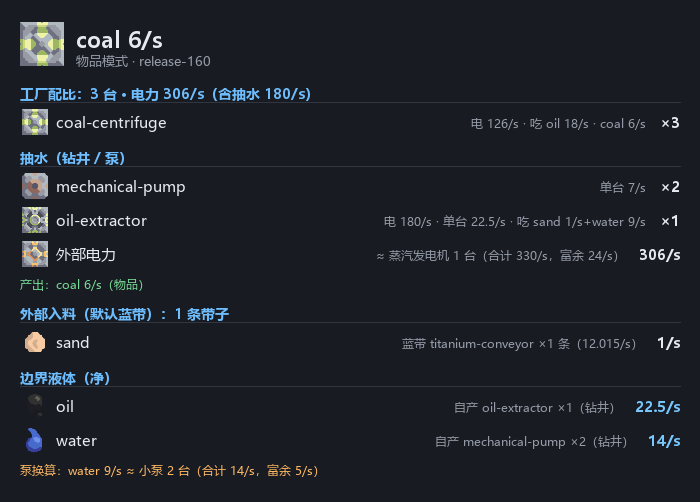
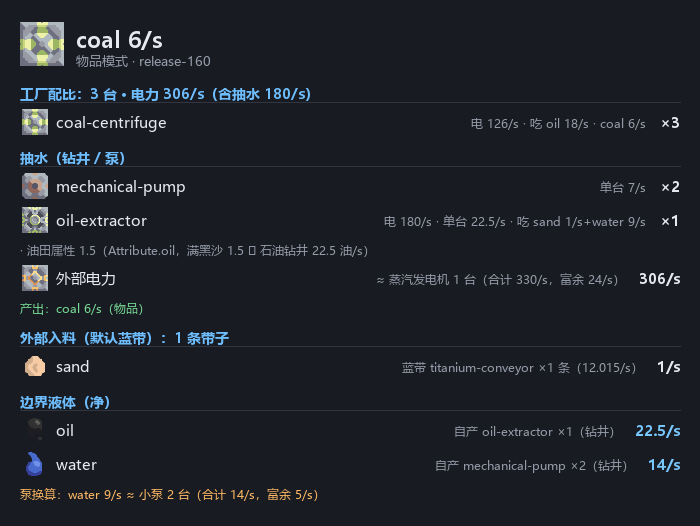
fix(ratio-calc): 油田属性可调（--oilfloor 默认 1.5 ⇒ 22.5 油/s）、修混合厂液体重复计、物品工厂写出产出
- 石油钻井地板属性做成参数：core.applyFloor + idx.oilFloor，expand/expandBuilding/expandMixed/
  pumpPlan/pumpEquivalents/pumpMix 全部透传 opts.floor；CLI --oilfloor、页面「油田属性」数字框、
  URL ?oilfloor=0.7；machineRows 按 result.oilFloor 重算泵产量（0.7 ⇒ 10.5 油/s、2 台钻井）。
- 修 expandMixed 液体重复计：目标方块的输入液体只走 machines（liquidDemand 读），不再同时塞
  liquidExtra，3 台 coal-centrifuge 的油从 36/s 回到 18/s，liquidNet 不再报外部运入。
- 修物品工厂产出行被 kind !== "item" 挡掉的问题：pulverizer 现在写「吃 scrap 1.5/s → sand 1.5/s」。
- 测试：core 176 行 ok、cli 67 项、page 101 项、card 12 项；gate.py 12/12。
- 重出 docs/card-coal.png（700×526）、docs/page-coal.png（含油田属性输入框）。

diff --git a/ratio-calc/core.js b/ratio-calc/core.js
@@ -231,6 +231,12 @@
       liquidPumps: liquidPumps,
       liquidMakers: liquidMakers,
       liquidColors: data.liquid_colors || {},
+      /* 油田属性默认值（数据里 Fracker 的 perSecond 就是按这个属性算的） */
+      oilFloor: (function () {
+        var f = 0;
+        pumps.forEach(function (p) { if (p.kind === "Fracker" && p.floorAttr > 0) f = p.floorAttr; });
+        return f || 1.5;
+      })(),
       liquidIcons: data.liquid_icons || {},
       channels: channels,
       channelsByKey: channelsByKey,
@@ -318,6 +324,47 @@
   /* 液体来源方案：要 amount 个/s 的某种液体，用钻井还是转化方块、要几台、吃什么。
    * how  = "auto"（钻井优先）| "pump"（钻井）| "make"（转化方块）| "import"（不自产）
    * name 可选：指定泵 / 转化方块的方块名（如 oil 用 spore-press 而不是 oil-extractor）。 */
+  /* 油田属性（Attribute.oil）覆盖：Fracker 每秒 = pumpAmount×60×属性，
+   * 数据里存的是「满黑沙 1.5」的值，属性不同就按比例缩放。
+   * 返回一份浅拷贝的 index（pumps 与 liquidPumps 都换成缩放后的对象），不污染缓存。
+   * floor 不传或与默认相同时直接返回原 index。 */
+  function applyFloor(idx, floor) {
+    var base = idx.oilFloor || 1.5;
+    if (!(floor > 0) || Math.abs(floor - base) < 1e-9) return idx;
+    var pumps = new Map();
+    idx.pumps.forEach(function (p, k) {
+      if (p.kind === "Fracker" && p.floorAttr > 0) {
+        var q = {};
+        Object.keys(p).forEach(function (key) { q[key] = p[key]; });
+        q.perSecond = round(p.perSecond * floor / p.floorAttr);
+        q.floorAttr = floor;
+        pumps.set(k, q);
+      } else {
+        pumps.set(k, p);
+      }
+    });
+    var liquidPumps = new Map();
+    pumps.forEach(function (p) {
+      if (!(p.perSecond > 0)) return;
+      if (!liquidPumps.has(p.liquid)) liquidPumps.set(p.liquid, []);
+      liquidPumps.get(p.liquid).push(p);
+    });
+    liquidPumps.forEach(function (arr) {
+      arr.sort(function (a, b) {
+        var al = a.inputLiquids.length ? 1 : 0, bl = b.inputLiquids.length ? 1 : 0;
+        if (al !== bl) return al - bl;
+        return (b.perSecond - a.perSecond) || (a.power - b.power)
+            || (a.name < b.name ? -1 : a.name > b.name ? 1 : 0);
+      });
+    });
+    var out = {};
+    Object.keys(idx).forEach(function (key) { out[key] = idx[key]; });
+    out.pumps = pumps;
+    out.liquidPumps = liquidPumps;
+    out.oilFloor = floor;
+    return out;
+  }
+
   function liquidSourcePlan(idx, liquid, amount, how, name) {
     var pumps = idx.liquidPumps.get(liquid) || [];
     var makers = idx.liquidMakers.get(liquid) || [];
@@ -533,12 +580,13 @@
    * opts.liquids = "auto" 时，机器吃但没人供的液体（如 coal-centrifuge 的 oil）自动接钻井/转化方块，
    * 这就是"不允许外部输入"时把煤炭处理线（coal-centrifuge → oil-extractor）带出来的开关。 */
   function expand(data, target, rate, boundary, force, opts) {
-    var idx = indexOf(data);
+    var idx = applyFloor(indexOf(data), opts && opts.floor);
     if (!idx.itemSet.has(target)) throw new Error("未知物品：" + target);
     var ex = makeExpander(idx, boundary, force, (opts && opts.maxDepth) || MAX_DEPTH, !!(opts && opts.multi));
     var root = ex.need(target, rate, 0, null);
     var liquidFrom = (opts && opts.liquids) ? ex.resolveLiquids(opts) : {};
     var res = ex.result({ target: target, requested: rate, tree: root, liquidFrom: liquidFrom });
+    res.oilFloor = idx.oilFloor;
     res.achieved = root && root.actual ? root.actual : 0;
     recalcPower(idx, res);          // 液体自产会把钻井/抽水泵塞进 machines，电力和液体都要重算一次
     if (opts && opts.sources) applySources(data, res, opts.sources);
@@ -552,7 +600,7 @@
   /* 发电设备当"目标建筑"：算总发电、燃料、液体、自耗电。
    * 不递归电力：发电厂的自耗只显示，不再换算成更多发电厂。 */
   function expandGenerator(data, genName, count, opts) {
-    var idx = indexOf(data);
+    var idx = applyFloor(indexOf(data), opts && opts.floor);
     opts = opts || {};
     var g = idx.generators.get(genName);
     if (!g) throw new Error("未知发电厂：" + genName);
@@ -569,7 +617,7 @@
       mode: "building", block: genName, count: count, plan: 0, planTotal: 0,
       products: [{ name: "电力", type: "power", rate: round(netEach * count) }],
       inputs: [], tree: null, warnings: [], order: [], liquidExtra: {},
-      machines: {}, demand: {}, power: 0, extraPower: 0
+      machines: {}, demand: {}, power: 0, extraPower: 0, oilFloor: idx.oilFloor
     };
     if (fuel) {
       res.inputs.push({ name: fuel[0], amount: round(fuel[1] * count) });
@@ -599,7 +647,7 @@
   }
 
   function expandBuilding(data, blockName, count, opts) {
-    var idx = indexOf(data);
+    var idx = applyFloor(indexOf(data), opts && opts.floor);
     opts = opts || {};
     if (idx.generators && idx.generators.get(blockName)) return expandGenerator(data, blockName, count, opts);
     var b = idx.blocks.get(blockName);
@@ -651,6 +699,7 @@
         ? Math.min(Math.max(0, opts.plan || 0), Math.max(0, (b.plans || []).length - 1)) : 0,
       planTotal: b.kind === "unit" && b.factoryKind !== "reconstructor" ? (b.plans || []).length : 0
     });
+    res.oilFloor = idx.oilFloor;
     // 目标建筑自身也进建造清单（电力/液体要一起算进去：ex.result 里还没有它）
     res.machines[blockName] = (res.machines[blockName] || 0) + count;
     res.machines = sortMachines(res.machines);
@@ -717,7 +766,7 @@
 
   /* targets = [{block:"silicon-smelter", count:2}, {block:"graphite-press", count:3}] */
   function expandMixed(data, targets, opts) {
-    var idx = indexOf(data);
+    var idx = applyFloor(indexOf(data), opts && opts.floor);
     opts = opts || {};
     var list = (targets || []).map(function (t) {
       if (!t || !t.block) throw new Error("混合厂的每个目标都要写方块名");
@@ -862,9 +911,8 @@
       s.inputs.forEach(function (i) {
         inputs.push({ name: i.name, amount: i.amount, block: s.block });
       });
-      (s.inputLiquids || []).forEach(function (l) {
-        liquidExtra[l.name] = (liquidExtra[l.name] || 0) + l.perSecond;
-      });
+      /* 注意：目标方块的输入液体已经通过上面那行 machines[s.block] 进 liquidDemand，
+       * 再塞 liquidExtra 就会重复计一遍（mixed 模式 coal-centrifuge 3 台的油曾算成 36/s）。 */
       powerOut += s.powerOut || 0;
       targetRows.push({ block: s.block, count: s.count, kind: s.kind, products: s.products,
                         inputs: s.inputs, inputLiquids: s.inputLiquids || [],
@@ -916,6 +964,7 @@
       internals: internals,
       warnings: warnings,
       tree: null,
+      oilFloor: idx.oilFloor,
       snapshot: idx.snapshot || ""
     };
     Object.keys(boundaryRate).sort().forEach(function (k) {
@@ -1172,8 +1221,8 @@
   }
 
   /* 抽水泵：要 rate 个/s 的某种液体，要几台泵、多少电、吃什么 */
-  function pumpPlan(data, liquidName, amount, pumpName) {
-    var idx = indexOf(data);
+  function pumpPlan(data, liquidName, amount, pumpName, floor) {
+    var idx = applyFloor(indexOf(data), floor);
     var p = idx.pumps.get(pumpName);
     if (!p) throw new Error("未知抽水泵：" + pumpName);
     if (p.liquid !== liquidName) {
@@ -1192,8 +1241,8 @@
 
   /* 液体需求换算成抽水机台数：小泵(机械泵)→中泵(回转泵)→大泵(脉冲泵)…
    * 用户口径里水常按"几台泵"计，所以每种液体都给出各档泵要几台（向上取整）。 */
-  function pumpEquivalents(data, liquidName, amount) {
-    var idx = indexOf(data);
+  function pumpEquivalents(data, liquidName, amount, floor) {
+    var idx = applyFloor(indexOf(data), floor);
     var out = [];
     idx.pumps.forEach(function (p) {
       if (p.liquid !== liquidName || !(p.perSecond > 0)) return;
@@ -1212,8 +1261,8 @@
    * 目标顺序（用户 2026-11-09 指定）：先让**富余尽量小**，富余相同再比台数。
    * 例：18/s 水 → 小泵 3 台（合计 21/s，富余 3/s），而不是中泵 1 台（48/s，富余 30/s）。 */
   var PUMP_TIERS = ["mechanical-pump", "rotary-pump", "impulse-pump"];
-  function pumpMix(data, liquidName, amount) {
-    return pumpMixIdx(indexOf(data), liquidName, amount);
+  function pumpMix(data, liquidName, amount, floor) {
+    return pumpMixIdx(applyFloor(indexOf(data), floor), liquidName, amount);
   }
   function pumpMixIdx(idx, liquidName, amount) {
     var tiers = [];
@@ -1669,7 +1718,8 @@
 
   /* 便捷：把结果摊平成表格行 */
   function machineRows(data, result) {
-    var idx = indexOf(data);
+    /* 油田属性会改石油钻井的每秒产量，所以这里也要按 result.oilFloor 重算索引 */
+    var idx = applyFloor(indexOf(data), result && result.oilFloor);
     return Object.keys(result.machines).map(function (name) {
       var b = anyBlock(idx, name);
       var count = result.machines[name];
@@ -1765,6 +1815,7 @@
               separatorPlan: separatorPlan, unitChain: unitChain, chainFromTop: chainFromTop,
               chainFromBlock: chainFromBlock, chainsForBlock: chainsForBlock,
               pumpPlan: pumpPlan, pumpEquivalents: pumpEquivalents, pumpMix: pumpMix,
+      applyFloor: applyFloor,
               powerMix: powerMix,
               applySources: applySources, recalcPower: recalcPower,
               liquidDemand: liquidDemand, DEFAULT_CHANNEL: DEFAULT_CHANNEL };

diff --git a/ratio-calc/index.html b/ratio-calc/index.html
@@ -172,6 +172,12 @@
         </label>
       </div>
       <div>
+        <label for="oilfloor">油田属性</label>
+        <input id="oilfloor" type="number" min="0.1" max="3" step="0.1" value="1.5"
+               title="Attribute.oil：满黑沙 1.5（石油钻井 22.5 油/s = 0.25×60×1.5）；沙地 0.7、盐地 0.3、油页岩 2.0">
+        <div class="hint">1.5 = 满黑沙（影响石油钻井产量）</div>
+      </div>
+      <div>
         <label>&nbsp;</label>
         <button id="run">计算</button>
       </div>
@@ -1022,6 +1028,8 @@
     if (q.mode === "item") mode = "item";
     // 多产物方块参与递归：?multi=1
     if (q.multi === "1" || q.multi === "on" || q.multi === "true") el("multichk").checked = true;
+    // 油田属性：?oilfloor=0.7
+    if (q.oilfloor && parseFloat(q.oilfloor) > 0) el("oilfloor").value = q.oilfloor;
     if (q.mode === "mixed") mode = "mixed";
     // 混合厂：?mode=mixed&mix=silicon-arc-furnace:1,carbide-crucible:1
     if (q.mix) {
@@ -1157,6 +1165,8 @@
     }
     var boundary = boundaryNames();
     var multiOn = !!(el("multichk") && el("multichk").checked);
+    var floorIn = parseFloat(el("oilfloor") && el("oilfloor").value);
+    var floorOpt = floorIn > 0 ? floorIn : undefined;
     var depth = Math.max(1, Math.min(12, parseInt(el("depth").value, 10) || 6));
     var liqOpt = el("autoliq") && el("autoliq").checked ? { liquids: "auto" } : {};
     var res;
@@ -1164,19 +1174,19 @@
       if (mode === "mixed") {
         if (!mixTargets.length) { alert("先往清单里加至少一个目标"); return; }
         res = R.expandMixed(DATA, mixTargets.map(function (t) { return { block: t.block, count: t.count }; }),
-                            Object.assign({ boundary: boundary, force: forced, maxDepth: depth, multi: multiOn }, liqOpt));
+                            Object.assign({ boundary: boundary, force: forced, maxDepth: depth, multi: multiOn, floor: floorOpt }, liqOpt));
       } else if (mode === "building") {
         var count = Math.max(1, parseInt(el("count").value, 10) || 1);
         var plan = parseInt(el("plan").value || "0", 10) || 0;
         var selB = blockOf(curBlock);
         var ch = (selB && selB.kind === "unit") ? R.chainFromBlock(DATA, curBlock, count) : null;
         res = ch ? chainToRes(ch)
-                 : R.expandBuilding(DATA, curBlock, count, Object.assign({ boundary: boundary, force: forced, plan: plan, maxDepth: depth, multi: multiOn,
+                 : R.expandBuilding(DATA, curBlock, count, Object.assign({ boundary: boundary, force: forced, plan: plan, maxDepth: depth, multi: multiOn, floor: floorOpt,
                                                    fuel: (el("genfuel") && el("genfuel").value) || null }, liqOpt));
       } else {
         var rate = parseFloat(el("rate").value);
         if (!(rate > 0)) { alert("速率要大于 0"); return; }
-        res = R.expand(DATA, targetSel.value, rate, boundary, forced, Object.assign({ maxDepth: depth, multi: multiOn }, liqOpt));
+        res = R.expand(DATA, targetSel.value, rate, boundary, forced, Object.assign({ maxDepth: depth, multi: multiOn, floor: floorOpt }, liqOpt));
       }
     } catch (e) {
       alert("算不出来：" + e.message);
@@ -1533,6 +1543,11 @@
                      multi: function (on) {
                        if (on != null) { el("multichk").checked = !!on; run(); }
                        return el("multichk").checked;
+                     },
+                     /* 油田属性（Attribute.oil）：__ratio.oilfloor(0.7) 改完重算 */
+                     oilfloor: function (v) {
+                       if (v != null && parseFloat(v) > 0) { el("oilfloor").value = v; run(); }
+                       return parseFloat(el("oilfloor").value) || 1.5;
                      },
                      /* 液体自产开关：__ratio.autoliq(true) */
                      autoliq: function (on, boundaryText) {

diff --git a/ratio-calc/card.py b/ratio-calc/card.py
@@ -221,6 +221,10 @@ def _machine_section(c, res):
                 bits.append("吃 " + "+".join("%s %s/s" % (i["name"], fmt(i["perSecond"])) for i in ins[:3]))
             c.row(m.get("icon"), m.get("name") or "?", "×%d" % int(m.get("count") or 0),
                   " · ".join(bits) or None)
+        # 石油钻井的产量取决于地板属性（Attribute.oil）：把口径写在抽水节里
+        if any((m.get("name") or "") == "oil-extractor" for m in plist) and res.get("oilFloor"):
+            c.note("· 油田属性 %s（Attribute.oil，满黑沙 1.5 ⇒ 石油钻井 22.5 油/s）"
+                   % fmt(res["oilFloor"]), DIM)
 
 
 def _byproduct_section(c, res):
